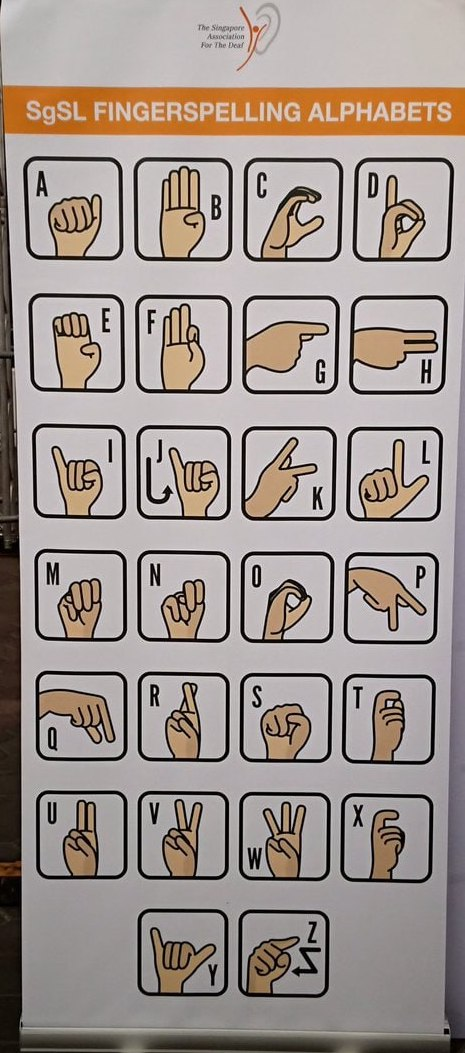
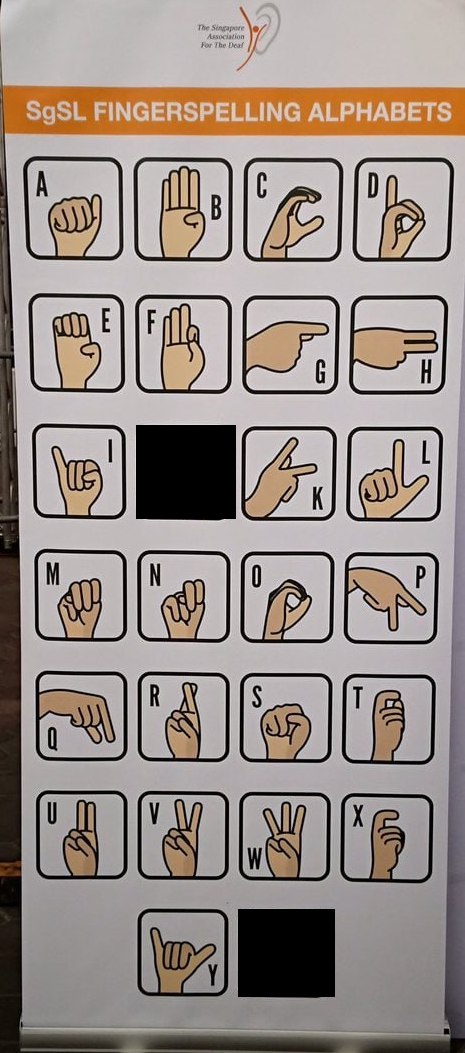
Beautified signlingo quiz app

Changed region(s): [[0.271, 0.3951, 0.5118, 0.5166], [0.5118, 0.8509, 0.7226, 0.9725]]

diff --git a/frontend/pages/Signlingo.py b/frontend/pages/Signlingo.py
@@ -14,27 +14,33 @@ mpdraw = mp.solutions.drawing_utils
 script_dir = os.path.dirname(__file__)
 # image = Image.open('./assets/legend.jpeg')
 image = Image.open(os.path.join(script_dir, '../assets/legend.jpeg'))
-header = Image.open(os.path.join(script_dir, '../assets/header.png'))
+header = Image.open(os.path.join(script_dir, '../assets/signlingo-header.png'))
 logo = Image.open(os.path.join(script_dir, '../assets/signlingo.png'))
 resized_logo = logo.resize((150, 150))
  
 st.set_page_config(layout="centered")
-# st.image(header)
+st.image(header)
 # st.title("  ✌Real Time Sign Language Detection 🤟")
-st.image(resized_logo)
-st.title(" :orange[ Signlingo Alphabets Game] ")
-models = ["CNN", "SVM", "KNN"]
-choice = st.selectbox("Select model to use.", models)
+# st.image(resized_logo)
+st.title(" :orange[ Sign Language Alphabets Game] ")
+# models = ["CNN", "SVM", "KNN"]
+# choice = st.selectbox("Select model to use.", models)
+choice = "CNN"
+st.subheader("Instructions")
+st.text("This game is to help you learn the Singapore Sign Language alphabets.")
+st.text("Try gesturing the alphabet displayed and check if you are right or wrong.")
+st.text("You can shuffle if the letter is too hard for you.")
 st.text("Tick ☑ the checkbox 'Play' below to start playing the game and uncheck ☐ to stop.")
 
 st.sidebar.title("Guide")
-st.sidebar.image(image, caption='Singapore Sign Language Guide', use_column_width=True) #replace this with updated image with motion based letters crossed out.
+st.sidebar.image(image, caption='Singapore Sign Language Guide', use_column_width=True)
 
 # all_classes = os.listdir("C:/Users/harsh/Downloads/ASL")
 all_alphabets = ['a', 'b', 'c', 'd', 'e', 'f', 'g', 'h', 'i', 'k', 'l', 'm', 'n', 'o', 'p', 'q', 'r', 's', 't', 'u', 'v', 'w', 'x', 'y']
+quiz_alphabets = ['a', 'b', 'c', 'd', 'e', 'f', 'g', 'h', 'i', 'k', 'l', 'm', 'n', 'o', 'p', 'q', 'r', 'u', 'v', 'w', 'x', 'y']
 
 def random_alphabet():
-  return all_alphabets[np.random.randint(0, len(all_alphabets))]
+  return quiz_alphabets[np.random.randint(0, len(quiz_alphabets))]
 
 if('current_alphabet' not in st.session_state):
   st.session_state['current_alphabet'] = random_alphabet()
@@ -44,13 +50,12 @@ mp_drawing = mp.solutions.drawing_utils
 mp_hands = mp.solutions.hands
 knn_model = joblib.load(os.path.join(script_dir, '../saved_models/knn.joblib'))
 svm_model = joblib.load(os.path.join(script_dir, '../saved_models/svm.joblib'))
-# cnn_model = keras.models.load_model(os.path.join(script_dir, '../saved_models/cnn.h5'))
-cnn_model = keras.models.load_model(os.path.join(script_dir, '../saved_models/custom.h5'))
+cnn_model = keras.models.load_model(os.path.join(script_dir, '../saved_models/cnn.h5'))
 
 # scaler = joblib.load('./saved_models/standard_scaler.pkl')
 scaler = joblib.load(os.path.join(script_dir, '../saved_models/standard_scaler.pkl'))
 
-run = st.checkbox('Play the game!')
+run = st.checkbox('👈 Play the game!')
 FRAME_WINDOW = st.image([])
 camera = cv2.VideoCapture(0)
 
@@ -163,7 +168,7 @@ if run is True and shuffleButton:
 
 
 if run is True:
-  st.write("Current Alphabet: ", st.session_state['current_alphabet'].upper())
+  st.write("🚩 Current Alphabet: ", st.session_state['current_alphabet'].upper())
 
 
 while run:
@@ -203,5 +208,5 @@ while run:
 
 
 else:
-    st.write('Stopped')
+    st.write('🛑 Game is stopped!')
     camera.release()

diff --git a/frontend/app.py b/frontend/app.py
@@ -41,7 +41,7 @@ choice = st.selectbox("Select model to use.", models)
 st.text("Tick ☑ the checkbox 'Run' below to start detecting and uncheck ☐ to stop.")
 
 st.sidebar.title("Guide")
-st.sidebar.image(image, caption='Singapore Sign Language Guide', use_column_width=True) #replace this with updated image with motion based letters crossed out.
+st.sidebar.image(image, caption='Singapore Sign Language Guide', use_column_width=True)
 
 # all_classes = os.listdir("C:/Users/harsh/Downloads/ASL")
 all_alphabets = ['a', 'b', 'c', 'd', 'e', 'f', 'g', 'h', 'i', 'k', 'l', 'm', 'n', 'o', 'p', 'q', 'r', 's', 't', 'u', 'v', 'w', 'x', 'y']

diff --git a/README.md b/README.md
@@ -3,4 +3,4 @@
 Install the necessary packages.
 
 To run the app, use command
-<code> streamlit run app.py </code>
+<code> streamlit run App.py </code>
